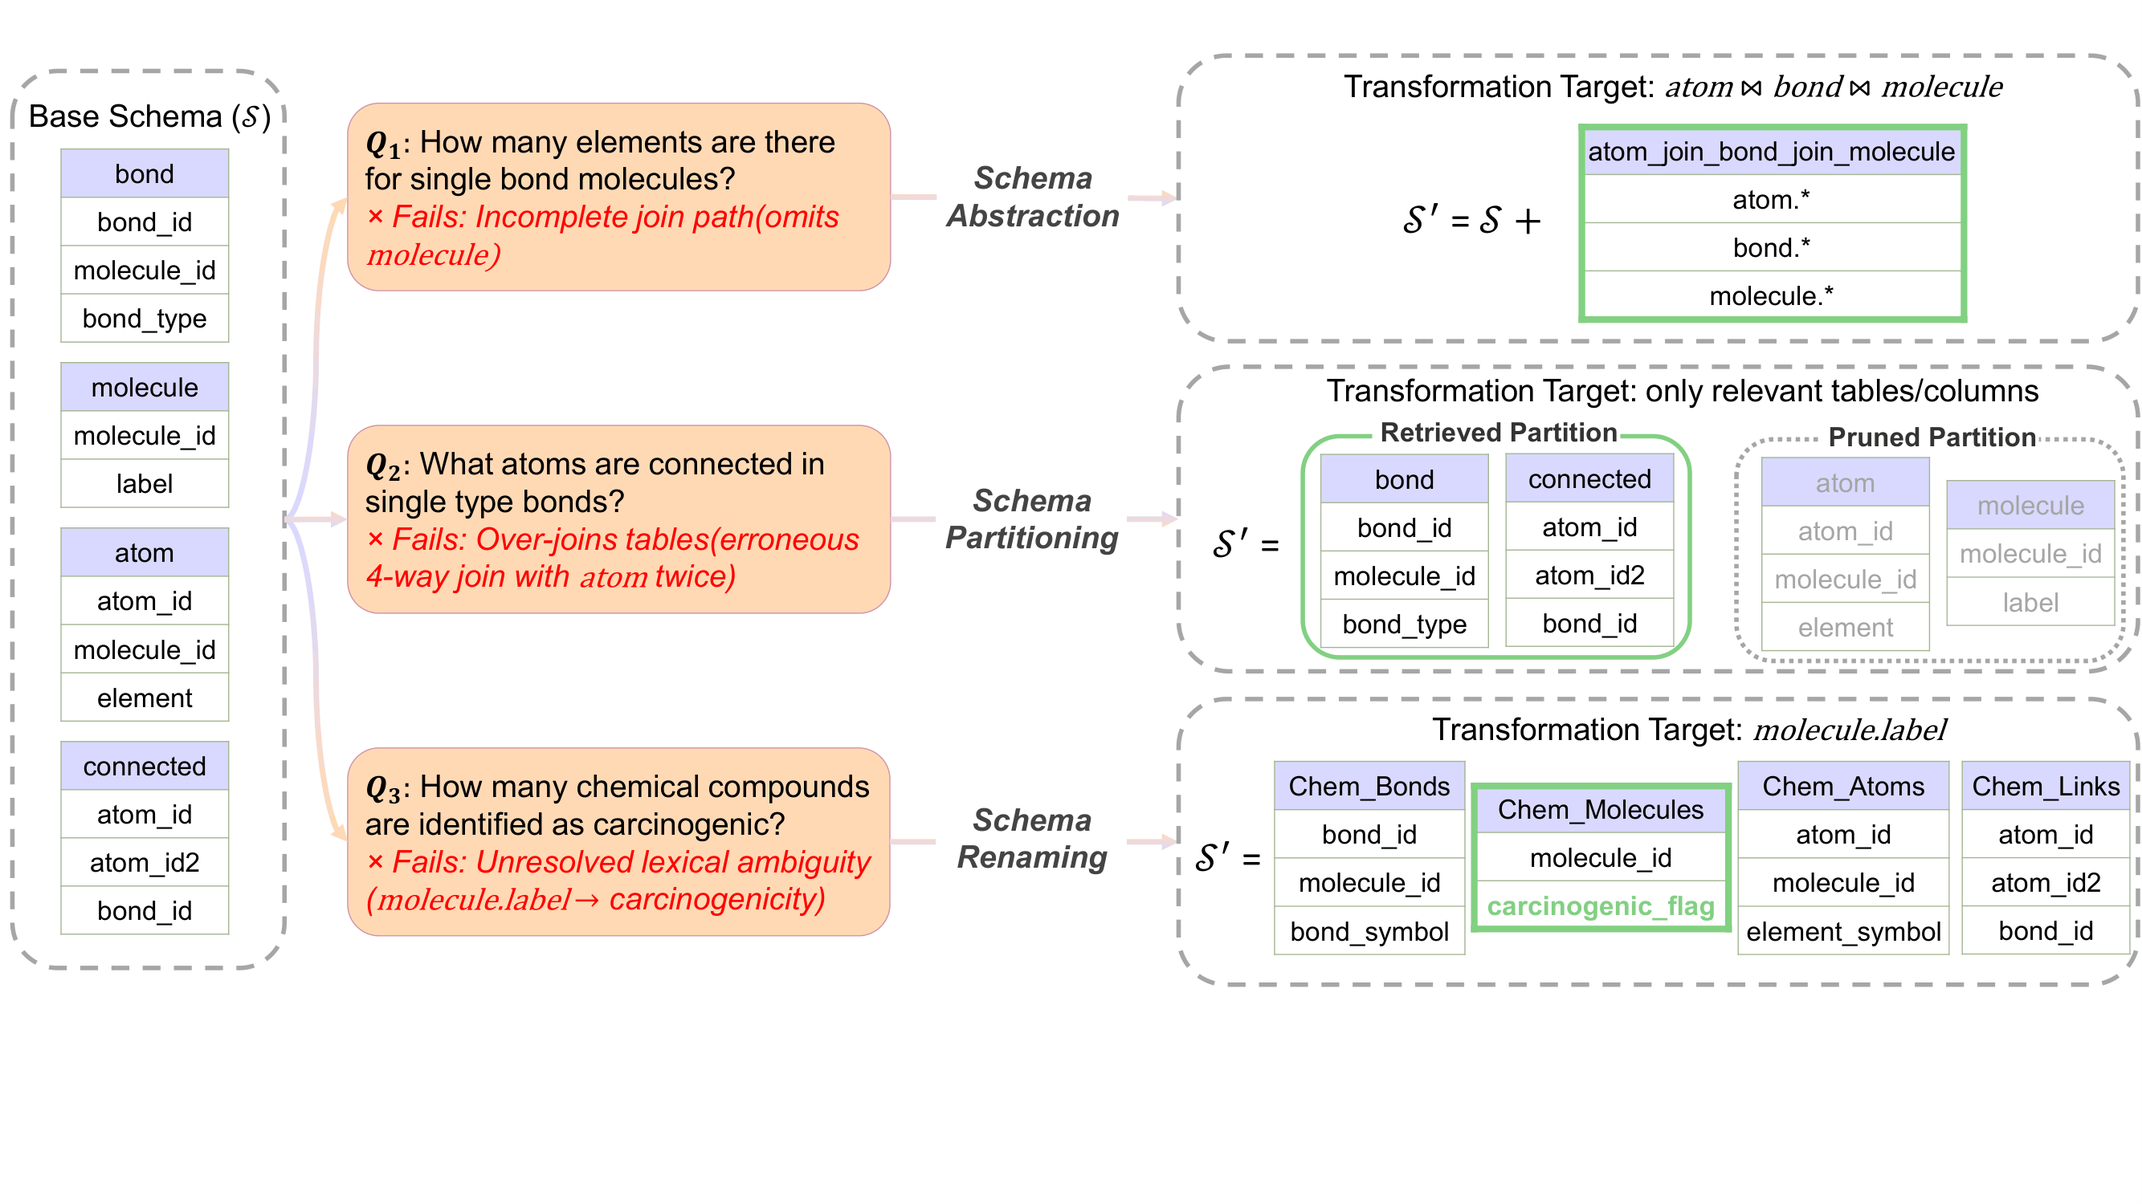
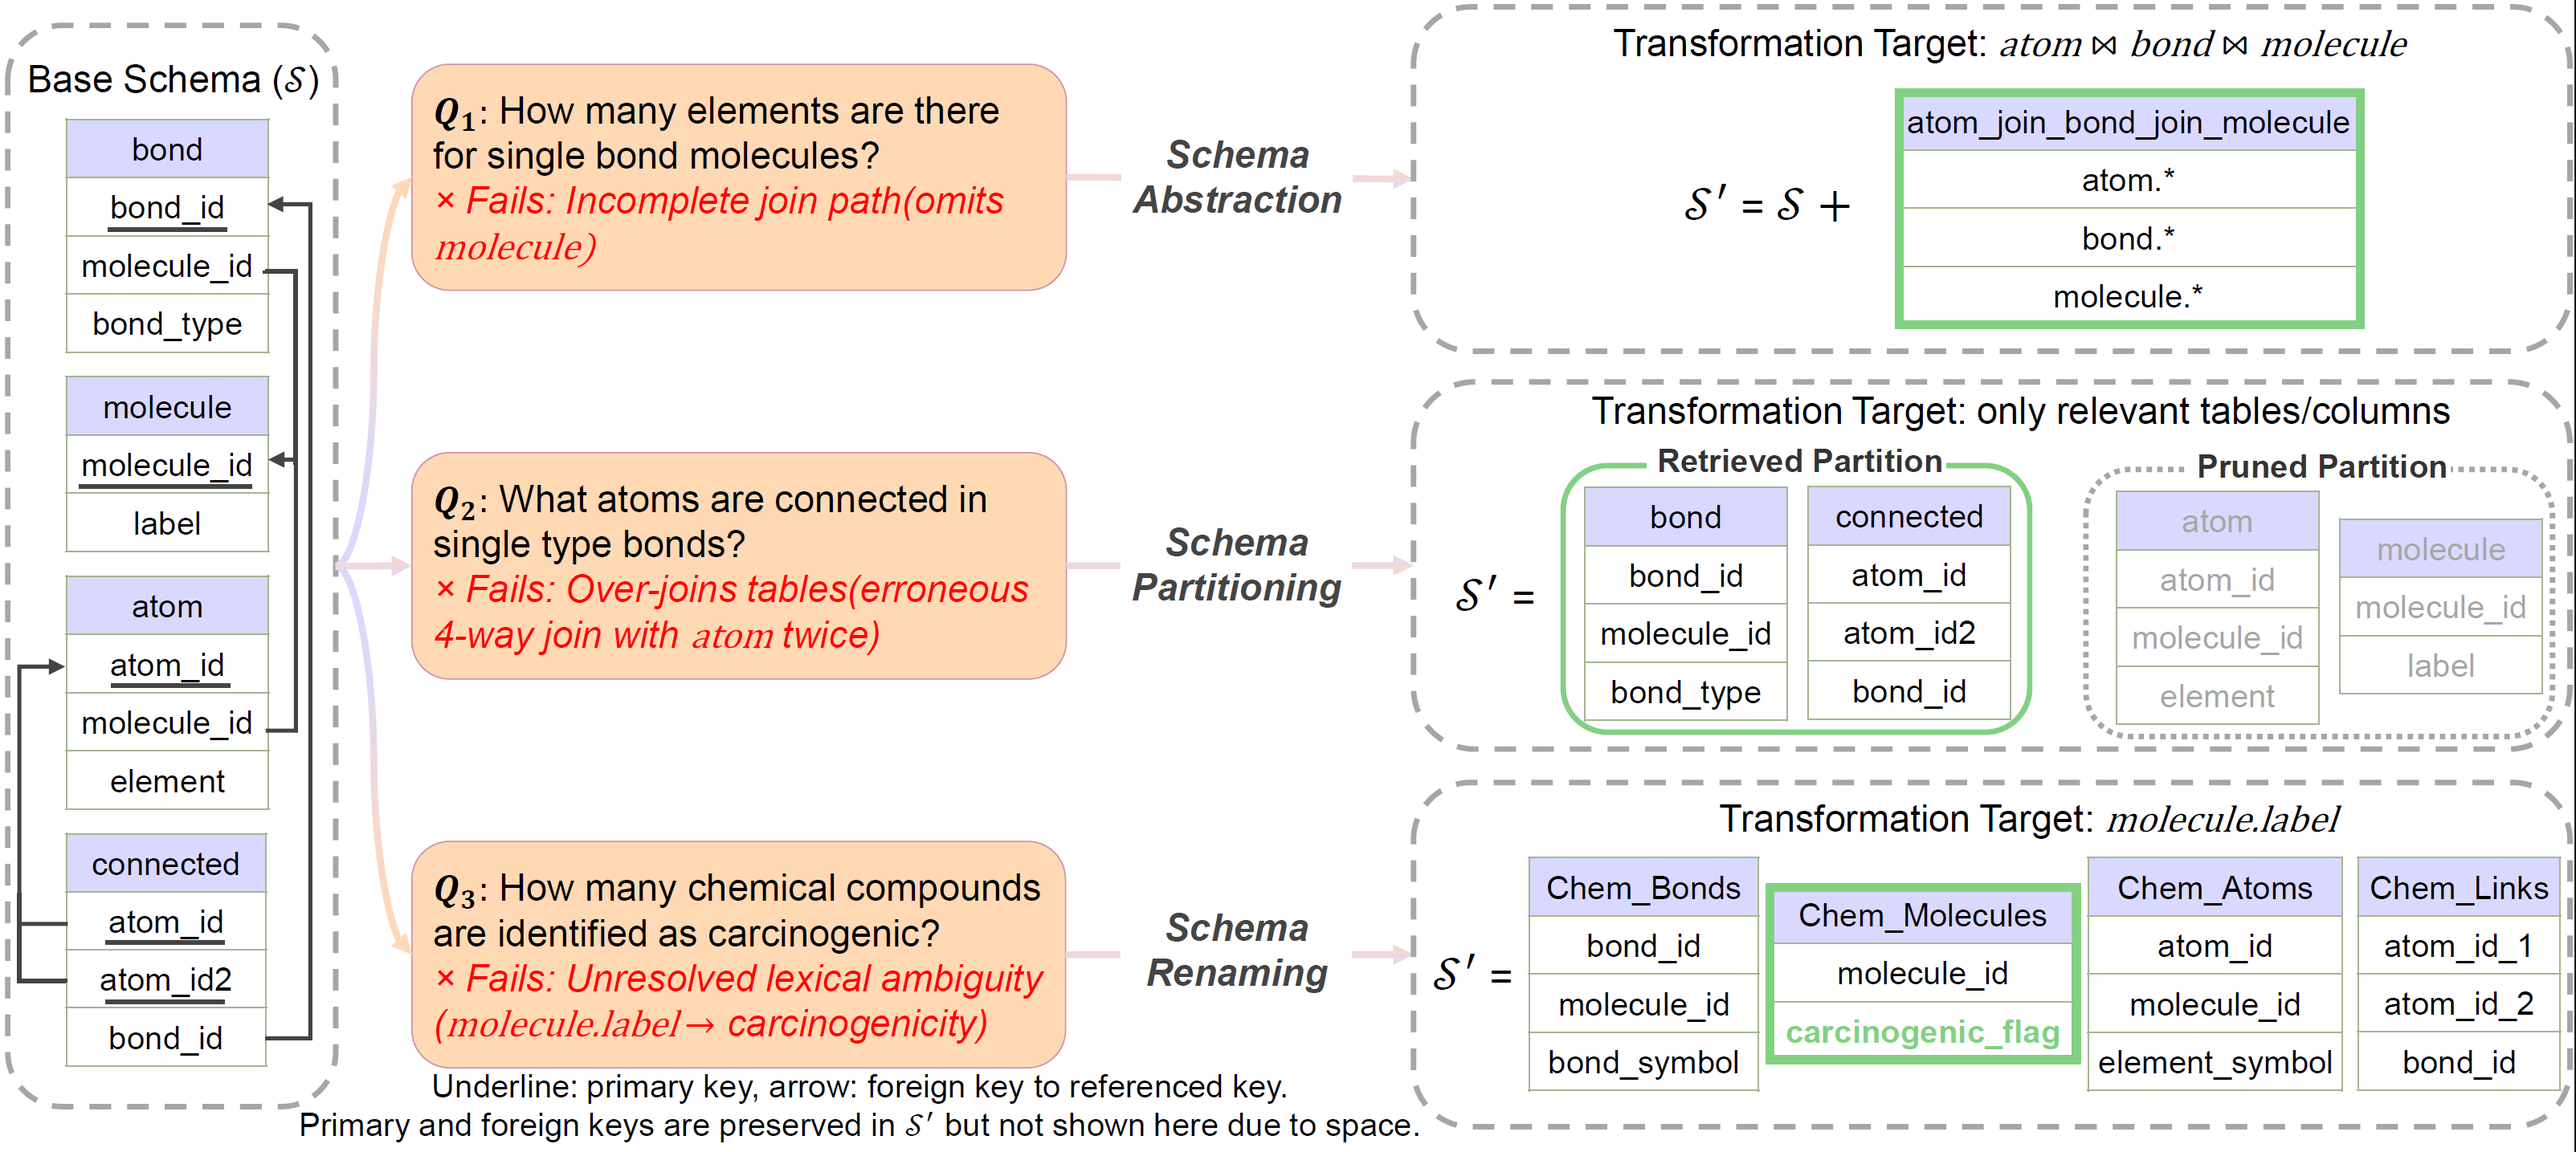
Update figure and readme

diff --git a/benchmarks/AutoLink/run/export_results.py b/benchmarks/AutoLink/run/export_results.py
@@ -1,13 +1,13 @@
-"""Score an arm's final SQL and write three columns into nl2sql_<ds>.csv.
+"""Score an arm's final SQL and write it into nl2sql_<ds>.csv.
 
 Columns follow basesql's naming with an ``autolink_`` prefix:
 
-    autolink_schema<suffix>          the final linked schema handed to generation
     autolink_sql<suffix>             the selected SQL
-    autolink_sql<suffix>_result      1 if it execution-matches the gold SQL
+    autolink_sql<suffix>_result      1 if it matches the gold SQL under
+                                     AutoLink's own comparator
 
-EX uses the same comparison as the TEMPLAR driver: ordered row comparison when
-the gold SQL has an ORDER BY, multiset comparison otherwise.
+The linked schema handed to generation goes to nl2sql_<ds>_schemas.parquet,
+keyed by row_index, as ``autolink_schema<suffix>``.
 """
 
 from __future__ import annotations
@@ -16,14 +16,10 @@ import argparse
 import glob
 import io
 import json
-import math
 import os
-import re
 import sqlite3
 import sys
 import time
-from collections import Counter
-from typing import Any, Optional, Tuple
 
 import pandas as pd
 
@@ -32,60 +28,6 @@ import ldd_config as C  # noqa: E402
 from sql_selection import compare_pandas_table  # noqa: E402  (AutoLink's own)
 
 EXEC_TIMEOUT_S = 30
-
-
-def _exec(db: str, sql: str) -> Tuple[bool, Any]:
-    conn = None
-    try:
-        conn = sqlite3.connect(db, timeout=EXEC_TIMEOUT_S)
-        conn.text_factory = bytes
-        dl = time.monotonic() + EXEC_TIMEOUT_S
-        conn.set_progress_handler(
-            lambda dl=dl: 1 if time.monotonic() > dl else 0, 1000)
-        return True, conn.execute(str(sql)).fetchall()
-    except Exception as e:
-        return False, f"{type(e).__name__}: {e}"
-    finally:
-        if conn is not None:
-            try:
-                conn.close()
-            except Exception:
-                pass
-
-
-def _norm(row: tuple) -> tuple:
-    out = []
-    for v in row:
-        if v is None:
-            out.append(None)
-        elif isinstance(v, bytes):
-            out.append(v.decode("utf-8", errors="replace"))
-        else:
-            out.append(str(v))
-    return tuple(out)
-
-
-def ex_match(db: str, gold: str, pred: str) -> bool:
-    if not str(pred).strip():
-        return False
-    ok_g, g = _exec(db, gold)
-    if not ok_g:
-        return False
-    ok_p, p = _exec(db, pred)
-    if not ok_p:
-        return False
-    # LDD's compare_sql is SET equality -- `set(predicted) == set(gold)` -- and
-    # every other pipeline in the paper is scored that way, so this must match it
-    # exactly or AutoLink is not comparable to them. It previously used
-    # Counter(...)== (multiset) plus an ORDER BY-triggered ordered compare, which
-    # is strictly harsher: a prediction that adds DISTINCT returns the same set
-    # but a different multiset, and scored 0 here while scoring 1 everywhere
-    # else. That cost ~2.8 points of strict EX on BIRD, and because the reported
-    # lenient metric is `strict OR compare_pandas_table`, it dragged lenient down
-    # ~2.3 with it.
-    gn = [_norm(r) for r in g]
-    pn = [_norm(r) for r in p]
-    return set(gn) == set(pn)
 
 
 def _exec_df(db: str, sql: str):
@@ -109,16 +51,13 @@ def _exec_df(db: str, sql: str):
                 pass
 
 
-def lenient_match(db: str, gold: str, pred: str) -> bool:
-    """AutoLink's OWN comparator, imported -- not reimplemented.
+def ex_match(db: str, gold: str, pred: str) -> bool:
+    """AutoLink's own comparator, imported from sql_selection.py.
 
-    compare_pandas_table (sql_selection.py, Spider 2.0's official comparator) is
-    the rule AutoLink's generation prompt is written against: the result "can be
-    more than what is required by the question, but it must not be less"
-    (config.py:392), so extra predicted columns are tolerated. An earlier version
-    of this function reimplemented that rule by hand and scored ~2.3 points low
-    on BIRD, which is why it now calls the shipped code instead. Identical to
-    analysis/pipelines/rescore_lenient.py, which produced the published numbers.
+    compare_pandas_table is Spider 2.0's official comparator and the rule
+    AutoLink's generation prompt is written against: the result "can be more
+    than what is required by the question, but it must not be less"
+    (config.py:392), so extra predicted columns are tolerated.
     """
     if not str(pred).strip():
         return False
@@ -192,8 +131,7 @@ def main() -> None:
     # reference RESULT SET is identical regardless of the arm's namespace.
     gold_col = "SQL"
 
-    lenient_col = f"{arm.result_col}_lenient"
-    for col in (arm.schema_col, arm.sql_col, arm.result_col, lenient_col):
+    for col in (arm.sql_col, arm.result_col):
         if col not in nl.columns:
             nl[col] = None
 
@@ -202,7 +140,7 @@ def main() -> None:
     # columns had grown nl2sql_bird.csv to 193 MB, unopenable in any spreadsheet.
     # It goes to a parquet sidecar keyed by row_index instead.
     schemas: dict = {}
-    n = ok = ok_len = missing = 0
+    n = ok = missing = 0
     for iid, info in questions.items():
         i = int(info["row_index"])
         n += 1
@@ -214,41 +152,30 @@ def main() -> None:
             missing += 1
         gold = str(nl.at[i, gold_col])
         res = int(ex_match(db, gold, sql)) if sql else 0
-        # NO union. This column is AutoLink's shipped compare_pandas_table and
-        # nothing else. It used to be `res or lenient_match(...)`, which quietly
-        # credited rows the shipped comparator rejects (a prediction that adds
-        # DISTINCT has gold's set but not gold's column-vector length), so the
-        # published "lenient" number was really max(strict, shipped).
-        lres = int(lenient_match(db, gold, sql)) if sql else 0
         ok += res
-        ok_len += lres
         schemas[i] = schema
         nl.at[i, arm.sql_col] = sql
         nl.at[i, arm.result_col] = res
-        nl.at[i, lenient_col] = lres
 
     print(f"=== {arm.dataset} {arm.suffix} ===")
     print(f"  gold column      : {gold_col}")
     print(f"  scored           : {n}")
     print(f"  no SQL produced  : {missing}")
-    print(f"  EX strict  (LDD) : {ok}/{n} = {100*ok/max(1,n):.2f}%")
-    print(f"  EX lenient (AL)  : {ok_len}/{n} = {100*ok_len/max(1,n):.2f}%")
+    print(f"  EX               : {ok}/{n} = {100*ok/max(1,n):.2f}%")
     print(f"  columns          : {arm.sql_col}")
     print(f"                     {arm.result_col}")
-    print(f"                     {lenient_col}")
 
     if a.no_write:
         print("\n  --no_write: CSV untouched")
         return
     nl.to_csv(C.NL2SQL_CSV[a.dataset], index=False)
     if schemas:
-        import pandas as _pd
         sp = os.path.join(os.path.dirname(C.NL2SQL_CSV[a.dataset]),
                           f"nl2sql_{a.dataset}_schemas.parquet")
-        new = _pd.DataFrame({"row_index": sorted(schemas),
-                             arm.schema_col: [schemas[r] for r in sorted(schemas)]})
+        new = pd.DataFrame({"row_index": sorted(schemas),
+                            arm.schema_col: [schemas[r] for r in sorted(schemas)]})
         if os.path.exists(sp):
-            old = _pd.read_parquet(sp)
+            old = pd.read_parquet(sp)
             if arm.schema_col in old.columns:
                 old = old.drop(columns=[arm.schema_col])
             new = old.merge(new, on="row_index", how="outer")

diff --git a/benchmarks/AutoLink/run/final_export_and_stats.py b/benchmarks/AutoLink/run/final_export_and_stats.py
@@ -7,17 +7,15 @@ One pass per dataset:
      found for the specified query.") for failed rows and export the error
      string as the prediction (108 rows across the 16 arms).
   2. execute every gold query ONCE and cache it; 8 arms share it.
-  3. score each arm two ways:
-        _result          set(pred) == set(gold)          (compare_sql semantics)
-        _result_lenient  compare_pandas_table(pred,gold) (AutoLink's shipped
-                         comparator, imported, NO union with strict)
-  4. write SQL + both result columns into csvs/nl2sql_<ds>.csv and, when it
+  3. score each arm with AutoLink's own comparator, compare_pandas_table,
+     imported from sql_selection.py.
+  4. write SQL + the _result column into csvs/nl2sql_<ds>.csv and, when it
      exists, into csvs/nl2sql_<ds>_min.csv (artifact naming:
      autolink_sql[_CFG]_ds), the full-results copy kept alongside the working
      CSV. It is not shipped -- recreate_database/nl2sql_<ds>.csv carries
      inputs only -- so on a fresh clone only the working CSV is written.
   5. report EX, delta vs baseline, McNemar vs baseline, and the full pairwise
-     McNemar p-value grid, on the shipped comparator.
+     McNemar p-value grid.
 
     python final_export_and_stats.py
     python final_export_and_stats.py --dataset bird --no_write
@@ -79,22 +77,6 @@ def run_sql(db, sql):
                 pass
 
 
-def rowset(df):
-    """Normalised row set for compare_sql-style equality."""
-    out = set()
-    for r in df.itertuples(index=False, name=None):
-        v = []
-        for x in r:
-            if isinstance(x, bytes):
-                x = x.decode("utf-8", "replace")
-            # NaN/inf are floats but not integral; int() raises on them.
-            if isinstance(x, float) and np.isfinite(x) and x == int(x):
-                x = int(x)
-            v.append(x)
-        out.add(tuple(v))
-    return out
-
-
 def mcnemar(a, b):
     """Exact McNemar on paired 0/1 vectors. Returns (b01, b10, p)."""
     a, b = np.asarray(a, bool), np.asarray(b, bool)
@@ -139,9 +121,9 @@ def main():
                   f"(no {os.path.basename(mini)}; writing the working CSV only)\n{'='*74}")
 
         gold_sql = df["SQL"].astype(str).tolist()
-        gold_cache, gold_set = {}, {}
+        gold_cache = {}
 
-        strict_v, lenient_v, labels = {}, {}, []
+        ex_v, labels = {}, []
         for label, kw, infix in ARMS:
             arm = C.Arm(dataset=ds, **kw)
             sel = os.path.join(arm.log_path, "sql_selection", "final")
@@ -154,47 +136,41 @@ def main():
             if not os.path.exists(db):
                 db = C.MERGED_DB[ds]
 
-            preds, s_vec, l_vec = [], [], []
+            preds, vec = [], []
             for i in range(n):
                 f = os.path.join(sel, f"local{i:06d}", "selected.sql")
                 pred = (open(f, encoding="utf-8", errors="replace").read().strip()
                         if os.path.exists(f) else "")
                 preds.append(pred)
                 if i not in gold_cache:
-                    g = run_sql(db, gold_sql[i])
-                    gold_cache[i] = g
-                    gold_set[i] = rowset(g) if g is not None else None
+                    gold_cache[i] = run_sql(db, gold_sql[i])
                 g = gold_cache[i]
                 if not pred or g is None:
-                    s_vec.append(0); l_vec.append(0); continue
+                    vec.append(0); continue
                 p = run_sql(db, pred)
                 if p is None:
-                    s_vec.append(0); l_vec.append(0); continue
-                s_vec.append(int(rowset(p) == gold_set[i]))
+                    vec.append(0); continue
                 if g.empty:
-                    l_vec.append(int(p.empty))
+                    vec.append(int(p.empty))
                 elif p.empty:
-                    l_vec.append(0)
+                    vec.append(0)
                 else:
                     try:
-                        l_vec.append(int(bool(compare_pandas_table(p, g, ignore_order=True))))
+                        vec.append(int(bool(compare_pandas_table(p, g, ignore_order=True))))
                     except Exception:
-                        l_vec.append(0)
+                        vec.append(0)
 
-            strict_v[label], lenient_v[label] = s_vec, l_vec
+            ex_v[label] = vec
             labels.append(label)
-            print(f"  {label:8} strict {100*np.mean(s_vec):6.2f}%   "
-                  f"shipped {100*np.mean(l_vec):6.2f}%")
+            print(f"  {label:8} EX {100*np.mean(vec):6.2f}%")
 
             if not a.no_write:
                 df[arm.sql_col] = preds
-                df[arm.result_col] = s_vec
-                df[arm.result_col + "_lenient"] = l_vec
+                df[arm.result_col] = vec
                 if mn is not None:
                     stem = f"autolink_sql_{infix + '_' if infix else ''}ds"
                     mn[stem] = preds
-                    mn[stem + "_result"] = s_vec
-                    mn[stem + "_result_lenient"] = l_vec
+                    mn[stem + "_result"] = vec
 
         if not a.no_write:
             df.to_csv(work, index=False)
@@ -205,22 +181,25 @@ def main():
                 print(f"\n  wrote {os.path.basename(work)}")
 
         # ---------------------------------------------------- significance
+        if not labels:
+            print("  no complete arm -- nothing to compare")
+            continue
         base = labels[0]
-        print(f"\n  EX / delta / McNemar vs {base}   (AutoLink shipped comparator)")
+        print(f"\n  EX / delta / McNemar vs {base}")
         print(f"    {'arm':8}{'EX':>9}{'delta':>9}{'b01':>6}{'b10':>6}{'p':>11}")
         rows = {}
         for lbl in labels:
-            ex = 100 * np.mean(lenient_v[lbl])
-            d = ex - 100 * np.mean(lenient_v[base])
+            ex = 100 * np.mean(ex_v[lbl])
+            d = ex - 100 * np.mean(ex_v[base])
             if lbl == base:
                 print(f"    {lbl:8}{ex:8.2f}%{'--':>9}{'':>6}{'':>6}{'':>11}")
                 rows[lbl] = dict(ex=ex)
                 continue
-            n01, n10, p = mcnemar(lenient_v[base], lenient_v[lbl])
+            n01, n10, p = mcnemar(ex_v[base], ex_v[lbl])
             print(f"    {lbl:8}{ex:8.2f}%{d:+8.2f} {n01:>6}{n10:>6}{p:>10.4f}{stars(p)}")
             rows[lbl] = dict(ex=ex, delta=d, gained=n01, lost=n10, p=p)
 
-        print(f"\n  pairwise McNemar p (row vs column), shipped comparator")
+        print(f"\n  pairwise McNemar p (row vs column)")
         print("    " + " " * 9 + "".join(f"{l:>9}" for l in labels))
         for r in labels:
             cells = []
@@ -228,12 +207,13 @@ def main():
                 if r == c:
                     cells.append(f"{'--':>9}")
                 else:
-                    _, _, p = mcnemar(lenient_v[r], lenient_v[c])
+                    _, _, p = mcnemar(ex_v[r], ex_v[c])
                     cells.append(f"{p:>9.3f}")
             print(f"    {r:9}" + "".join(cells))
         summary[ds] = rows
 
     out = os.path.join(HERE, "runlogs", "final_stats.json")
+    os.makedirs(os.path.dirname(out), exist_ok=True)
     json.dump(summary, open(out, "w"), indent=2)
     print(f"\nwrote {out}")
 

diff --git a/benchmarks/AutoLink/run/score_shipped.py b/benchmarks/AutoLink/run/score_shipped.py
@@ -5,8 +5,6 @@ vendored sql_selection.py (Spider 2.0's official comparator, which is what
 AutoLink's own selection step uses). Every gold column vector must appear in
 the prediction; extra predicted columns are tolerated.
 
-No union with a strict metric, no reimplementation -- just the shipped rule.
-
     python score_shipped.py
     python score_shipped.py --dataset bird
 """

diff --git a/benchmarks/README.md b/benchmarks/README.md
@@ -155,17 +155,6 @@ BaseSQL, DIN-SQL, MAC-SQL and CSC-SQL share these flags.
 Run any entry point with `--help` for the full list. The shared flags are
 defined in [`_common/cli_common.py`](_common/cli_common.py).
 
-## Scoring
-
-BaseSQL, DIN-SQL, MAC-SQL and CSC-SQL use `compare_sql` in
-[`_common/evaluate.py`](_common/evaluate.py). It runs the predicted and the
-gold SQL on the same database. They match when they return the same set of
-rows. Errors and timeouts (15 s) count as wrong.
-
-AutoLink uses its own comparator, `compare_pandas_table` in
-[`AutoLink/run/sql_selection.py`](AutoLink/run/sql_selection.py), which its
-prompt is written for. Its EX column ends in `_result_lenient`.
-
 ## Datasets
 
 | | Databases | Tables | Test / history questions |
